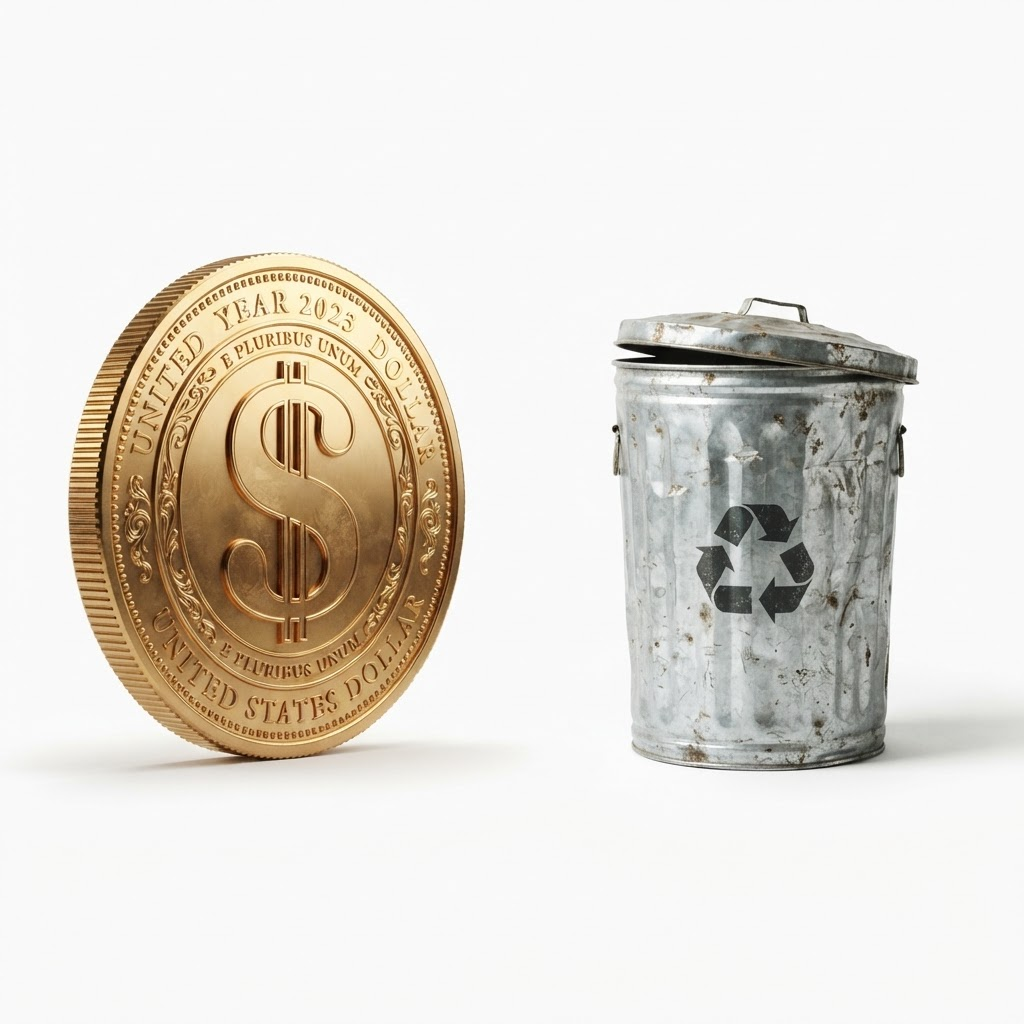
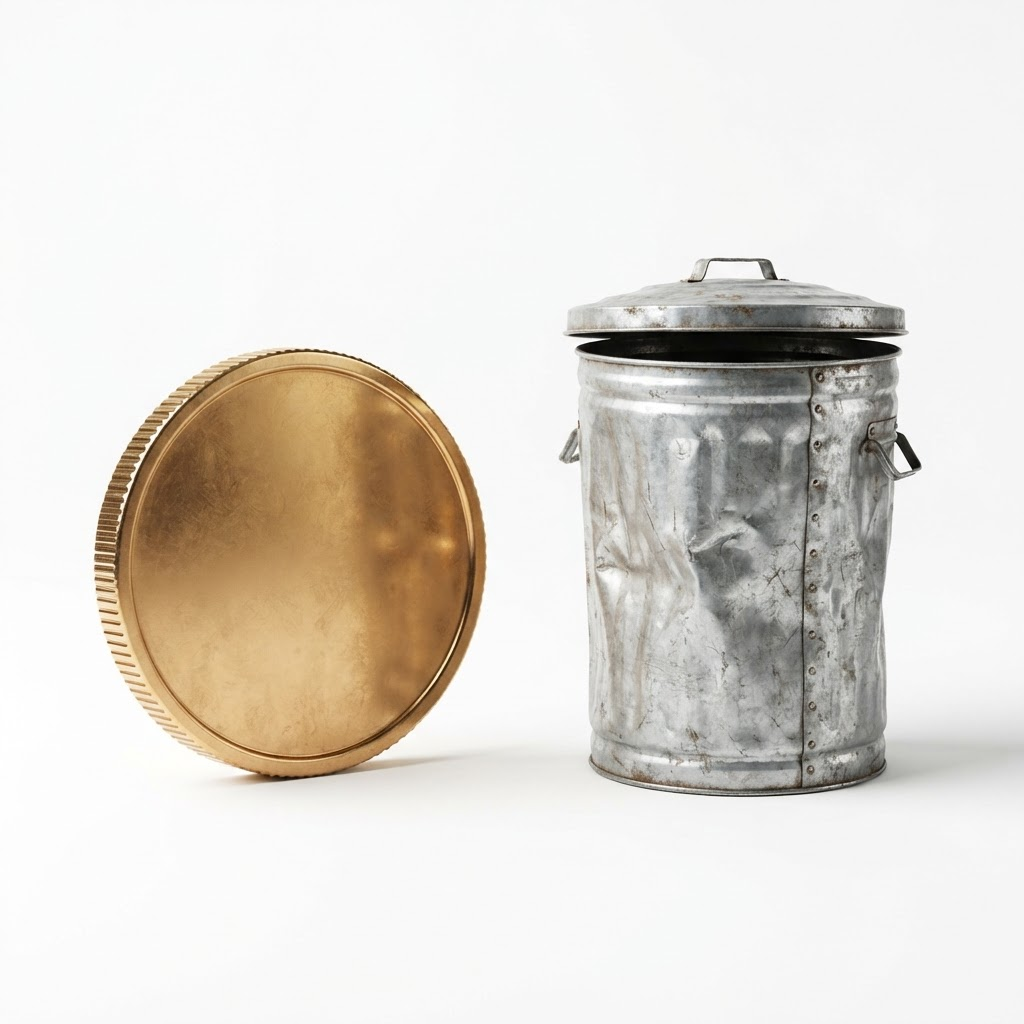
Refine coin mark, year, and home hero layout

Changed region(s): [[0.0625, 0.2188, 0.5, 0.7812], [0.5312, 0.25, 1.0, 0.7812]]

diff --git a/src/components/SotHomeHero.tsx b/src/components/SotHomeHero.tsx
@@ -25,8 +25,8 @@ export function SotHomeHero() {
         <div className="absolute left-[12%] top-8 h-64 w-64 rounded-full border-[18px] border-[#d6a928]" />
         <div className="absolute right-[15%] top-20 h-52 w-40 rotate-6 rounded-[2rem] border-[12px] border-slate-500" />
       </div>
-      <div className="relative mx-auto grid max-w-6xl gap-8 px-4 py-12 sm:px-6 lg:grid-cols-[1fr_1.2fr] lg:items-center lg:py-20">
-        <div className="order-2 max-w-xl lg:order-1">
+      <div className="relative mx-auto flex max-w-6xl flex-col gap-8 px-4 py-12 sm:px-6 lg:py-20">
+        <div className="order-2 mx-auto max-w-3xl text-center">
           <div className="flex items-center gap-3 text-xs font-bold uppercase tracking-[0.2em] text-slate-500">
             <Coins className="h-4 w-4 text-[#d6a928]" aria-hidden="true" />
             <span>People-powered brand intelligence</span>
@@ -50,20 +50,28 @@ export function SotHomeHero() {
             </Link>
           </div>
         </div>
-        <div className="order-1 flex min-h-[280px] items-center justify-center lg:order-2 lg:min-h-[390px]">
-          <div className="relative w-full max-w-2xl overflow-hidden rounded-[2rem] bg-white shadow-[0_20px_60px_rgba(15,23,42,0.12)] ring-1 ring-slate-200">
+        <div className="order-1 flex min-h-[280px] items-center justify-center lg:min-h-[390px]">
+          <div className="relative w-full max-w-4xl overflow-hidden rounded-[2rem] bg-white shadow-[0_20px_60px_rgba(15,23,42,0.12)] ring-1 ring-slate-200">
             <button type="button" aria-label="Stash: drop the coin" onMouseEnter={() => triggerObject("coin")} onFocus={() => triggerObject("coin")} onClick={() => triggerObject("coin")} className="group absolute inset-y-0 left-0 z-10 flex w-1/2 cursor-pointer items-end justify-start p-4 text-left">
               <span className="rounded-full bg-white/90 px-3 py-1.5 text-xs font-black uppercase tracking-[0.18em] text-[#9a720b] opacity-0 shadow-sm transition-opacity group-hover:opacity-100 group-focus-visible:opacity-100">Stash</span>
             </button>
             <button type="button" aria-label="Trash: close the metal lid" onMouseEnter={() => triggerObject("bin")} onFocus={() => triggerObject("bin")} onClick={() => triggerObject("bin")} className="group absolute inset-y-0 right-0 z-10 flex w-1/2 cursor-pointer items-end justify-end p-4 text-right">
               <span className="rounded-full bg-white/90 px-3 py-1.5 text-xs font-black uppercase tracking-[0.18em] text-slate-700 opacity-0 shadow-sm transition-opacity group-hover:opacity-100 group-focus-visible:opacity-100">Trash</span>
             </button>
+            <div className="pointer-events-none absolute left-[25%] top-1/2 z-20 -translate-x-1/2 -translate-y-1/2 text-center font-display font-black text-[#8d6508] drop-shadow-[0_2px_1px_rgba(255,255,255,0.7)]">
+              <div className="text-3xl tracking-tight sm:text-5xl">$OrT</div>
+              <div className="mt-1 text-[8px] uppercase tracking-[0.2em] sm:text-[10px]">{new Date().getFullYear()}</div>
+            </div>
             <img
               src="/images/sot-home-objects.png"
               alt="A realistic gold coin beside a battered silver trash can"
               className={`h-auto w-full object-cover transition-transform duration-500 motion-reduce:transition-none ${activeObject === "coin" ? "-translate-y-10 rotate-2" : activeObject === "bin" ? "translate-y-4 -rotate-2" : ""}`}
             />
             <div className="pointer-events-none absolute inset-x-0 bottom-0 h-16 bg-gradient-to-t from-white/40 to-transparent" />
+          </div>
+          <div className="mt-4 flex justify-center gap-3 text-sm font-black uppercase tracking-[0.18em]">
+            <span className="rounded-full bg-[#d6a928]/15 px-4 py-2 text-[#8d6508]">Stash</span>
+            <span className="rounded-full bg-slate-700/10 px-4 py-2 text-slate-700">Trash</span>
           </div>
         </div>
       </div>
